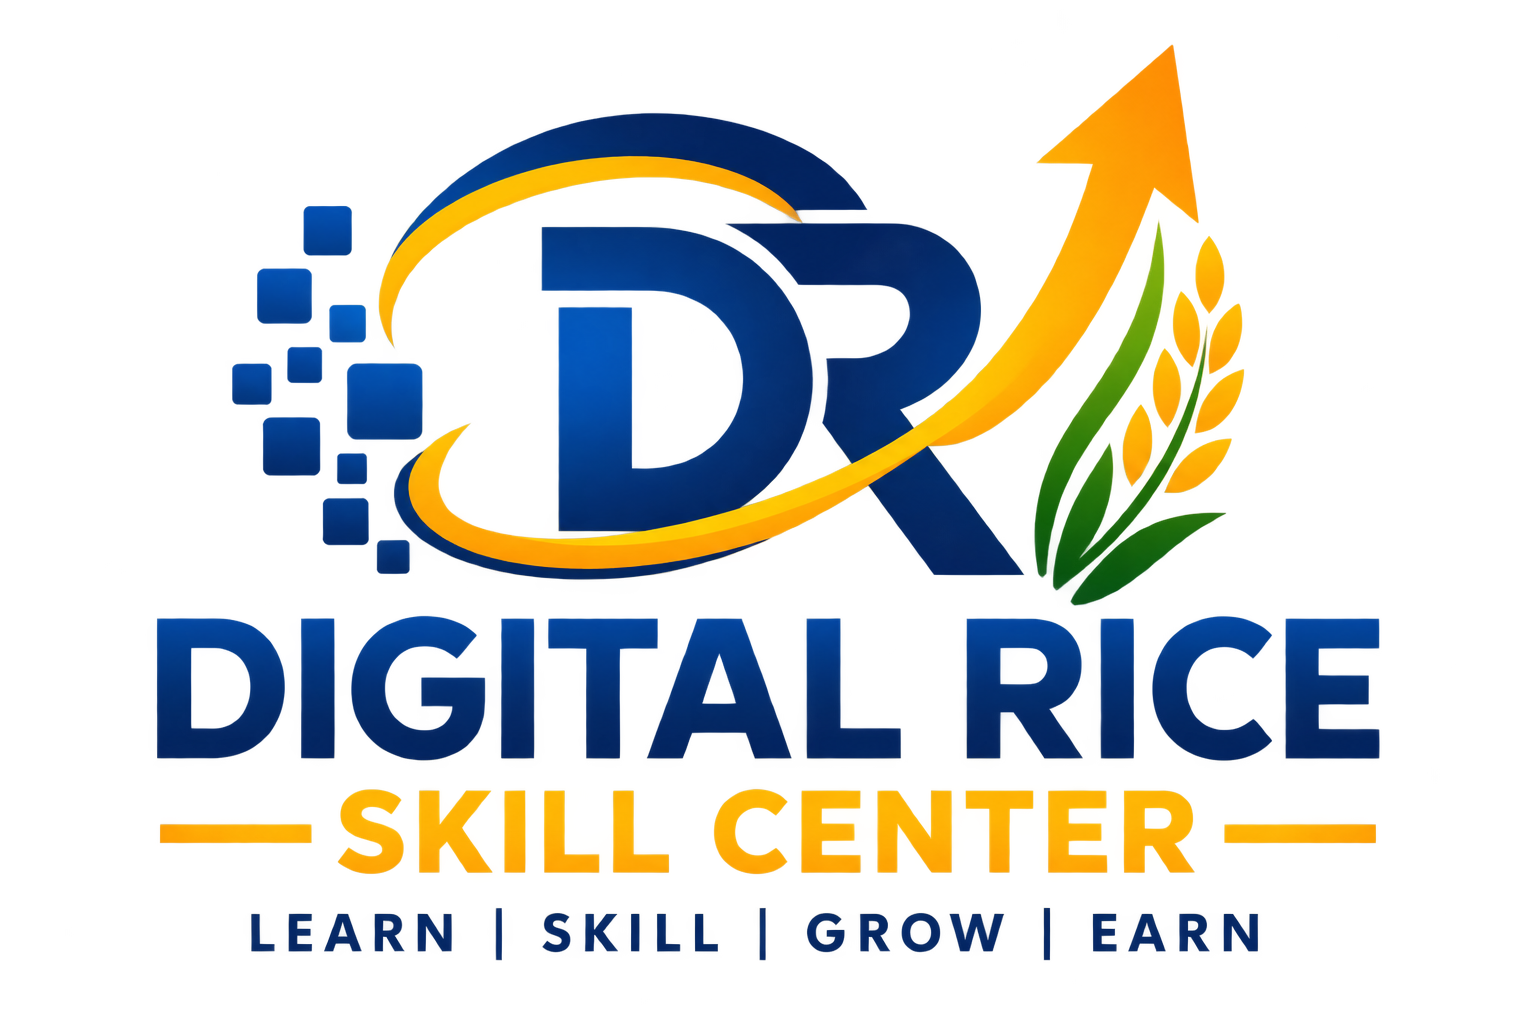
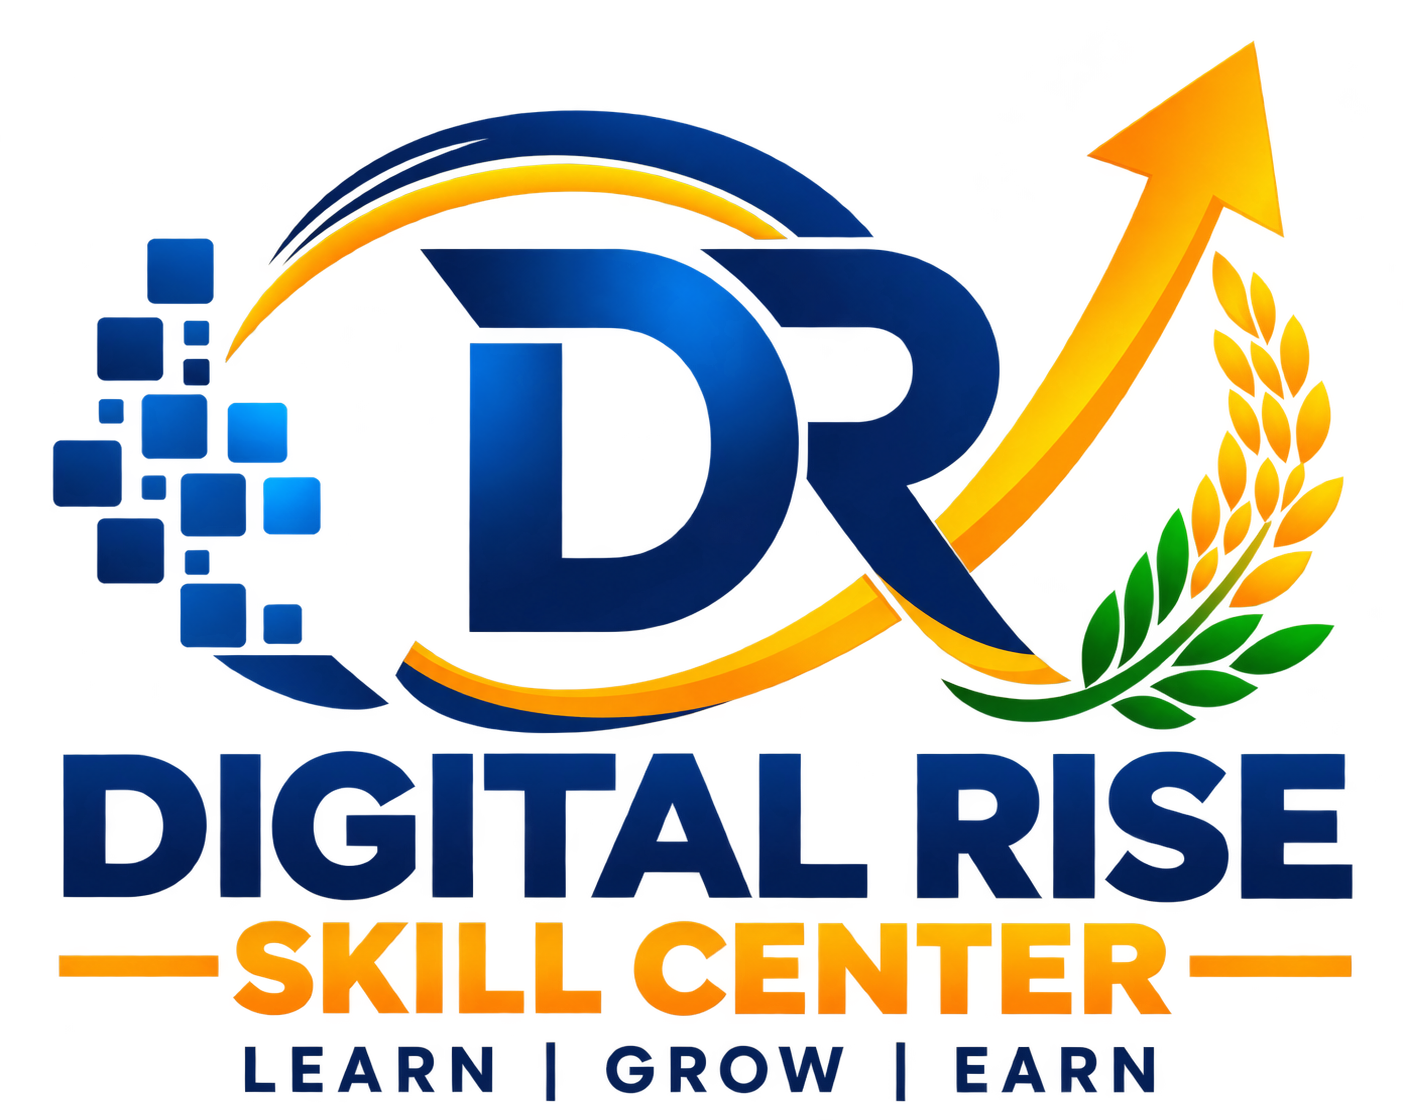
Digital rise skill center

diff --git a/index.html b/index.html
@@ -4,7 +4,7 @@
 <head>
     <meta charset="UTF-8">
     <meta name="viewport" content="width=device-width, initial-scale=1.0">
-    <title>Digital Rice Skill Center | Skills Today, Success Tomorrow</title>
+    <title>Digital Rise Skill Center | Skills Today, Success Tomorrow</title>
     <!-- External CSS File Link -->
     <link rel="stylesheet" href="sytle.css">
     <!-- Font Awesome Icons -->
@@ -295,9 +295,9 @@
 <body>
     <div id="splash-screen" class="splash-screen">
         <div class="splash-circle">
-            <img src="image.png" alt="Digital Rice logo" class="splash-logo">
+            <img src="image.png" alt="Digital Rise logo" class="splash-logo">
         </div>
-        <p class="splash-text">DIGITAL RICE SKILL CENTER</p>
+        <p class="splash-text">DIGITAL RISE SKILL CENTER</p>
         <div class="splash-progress" aria-hidden="true">
             <span class="progress-count">0%</span>
             <div class="progress-bar">
@@ -310,7 +310,7 @@
     <header class="navbar">
         <div class="container nav-container">
             <div class="logo">
-                <img src="image.png" alt="Digital Rice Skill Center logo" class="logo-img">
+                <img src="image.png" alt="Digital Rise Skill Center logo" class="logo-img">
 
             </div>
             <nav>
@@ -476,7 +476,7 @@
                         <div class="positioning-copy">
                             <span class="eyebrow">Company Profile</span>
                             <h2>A Skill Development Hub for Career Growth</h2>
-                            <p>Digital Rice Skill Center is a career training ecosystem committed to making students and
+                            <p>Digital Rise Skill Center is a career training ecosystem committed to making students and
                                 job
                                 seekers industry-ready through practical skills, confidence building, and placement
                                 support.
@@ -528,7 +528,7 @@
             <div class="container">
                 <div class="ceo-grid">
                     <div class="ceo-image">
-                        <img src="founder-photo.jpg" alt="CEO Photo of Digital Rice Skill Center">
+                        <img src="founder-photo.jpg" alt="CEO Photo of Digital Rise Skill Center">
                     </div>
                     <div class="ceo-card">
                         <div class="ceo-quote-mark"><i class="fa-solid fa-quote-left"></i></div>
@@ -539,7 +539,7 @@
                         </blockquote>
                         <div class="ceo-author">
                             <h4>Training & Placement Officer
-                                Digital Rice Skill Center</h4>
+                                Digital Rise Skill Center</h4>
                         </div>
                     </div>
                 </div>
@@ -633,9 +633,9 @@
                 <div class="grid grid-3 footer-grid">
                     <div class="footer-col">
                         <div class="logo">
-                            <!-- <img src="image.png" alt="Digital Rice Skill Center logo" class="logo-img logo-img-footer"> -->
+                            <!-- <img src="image.png" alt="Digital Rise Skill Center logo" class="logo-img logo-img-footer"> -->
                             <div class="logo-text">
-                                <h2 class="white">DIGITAL RICE</h2>
+                                <h2 class="white">DIGITAL RISE</h2>
                                 <span>SKILL CENTER</span>
                             </div>
                         </div>
@@ -649,13 +649,13 @@
                             <li><i class="fa-solid fa-location-dot"></i> <a
                                     href="https://www.google.com/maps/search/?api=1&query=130%2C%202nd%20Number%2C%20Nanda%20Nagar%2C%20Indore%2C%20MP%20-%20452011"
                                     target="_blank" rel="noopener noreferrer"
-                                    aria-label="Open Digital Rice Skill Center address in Google Maps">130, 2nd Number,
+                                    aria-label="Open Digital Rise Skill Center address in Google Maps">130, 2nd Number,
                                     Nanda Nagar, Indore, MP - 452011</a>
                             </li>
                             <li><i class="fa-solid fa-phone"></i> <a href="tel:+918103452976"
-                                    aria-label="Call Digital Rice Skill Center at 8103452976">8103452976</a></li>
-                            <li><i class="fa-solid fa-envelope"></i> info@digitalriceskillcenter.com</li>
-                            <li><i class="fa-solid fa-globe"></i> www.digitalriceskillcenter.com</li>
+                                    aria-label="Call Digital Rise Skill Center at 8103452976">8103452976</a></li>
+                            <li><i class="fa-solid fa-envelope"></i> info@digitalriseskillcenter.com</li>
+                            <li><i class="fa-solid fa-globe"></i> www.digitalriseskillcenter.com</li>
                         </ul>
                     </div>
                     <div class="footer-col">
@@ -666,7 +666,7 @@
                     </div>
                 </div>
                 <div class="footer-bottom">
-                    <p>&copy; 2026 Digital Rice Skill Center. All Rights Reserved. | Serving Nationwide</p>
+                    <p>&copy; 2026 Digital Rise Skill Center. All Rights Reserved. | Serving Nationwide</p>
                 </div>
             </div>
         </footer>
@@ -675,7 +675,7 @@
 
         <div id="ai-assistant" class="ai-assistant hidden">
             <button id="ai-toggle" class="ai-button" aria-label="Open AI Assistant">
-                <img src="image.png" alt="Digital Rice AI" class="ai-toggle-logo" />
+                <img src="image.png" alt="Digital Rise AI" class="ai-toggle-logo" />
             </button>
             <div id="ai-chat" class="ai-chat">
                 <div class="ai-header">
@@ -683,7 +683,7 @@
                     <button id="ai-close" class="ai-close" aria-label="Close assistant">×</button>
                 </div>
                 <div id="ai-messages" class="ai-messages">
-                    <div class="ai-message bot">Namaste! Main Digital Rice AI assistant hoon. Aap courses, fees,
+                    <div class="ai-message bot">Namaste! Main Digital Rise AI assistant hoon. Aap courses, fees,
                         duration,
                         placement process, refund offer, admission aur contact details ke baare mein pooch sakte hain.
                     </div>

diff --git a/main.js b/main.js
@@ -12,9 +12,9 @@ import {
 
 const firebaseConfig = {
     apiKey: "AIzaSyD6otrGTDeW55SKZUrmk0BfDhh8c1I1lRc",
-    authDomain: "digital-rice-skill-center.firebaseapp.com",
-    projectId: "digital-rice-skill-center",
-    storageBucket: "digital-rice-skill-center.firebasestorage.app",
+    authDomain: "digital-rise-skill-center.firebaseapp.com",
+    projectId: "digital-rise-skill-center",
+    storageBucket: "digital-rise-skill-center.firebasestorage.app",
     messagingSenderId: "596472090939",
     appId: "1:596472090939:web:b170785263cef3c885e71e",
     measurementId: "G-P93FV9Q4FB"
@@ -1697,7 +1697,7 @@ Email: ${application.email}`
 
 
                 /* =================================
-                   UPDATE PAYMENT MESSAGE
+                UPDATE PAYMENT MESSAGE
                 ================================= */
 
                 if (modalFormMessage) {
@@ -1723,7 +1723,7 @@ Email: ${application.email}`
 
 
                 /* =================================
-                   UPDATE BUTTONS
+                UPDATE BUTTONS
                 ================================= */
 
                 if (modalPayBtn) {
@@ -1978,7 +1978,7 @@ Email: ${application.email}`
 
 
             /* =================================
-               CREATE APPLICATION RECORD
+            CREATE APPLICATION RECORD
             ================================= */
 
             const appData = {

diff --git a/backend/main.py b/backend/main.py
@@ -27,8 +27,8 @@ load_dotenv()
 # =====================================================
 
 app = FastAPI(
-    title="Digital Rice AI Assistant",
-    description="Gemini powered AI Assistant for Digital Rice Skill Center",
+    title="Digital Rise AI Assistant",
+    description="Gemini powered AI Assistant for Digital Rise Skill Center",
     version="1.0.0"
 )
 
@@ -102,7 +102,7 @@ chat_history = []
 def home():
 
     return {
-        "message": "Digital Rice AI Assistant API is Running"
+        "message": "Digital Rise AI Assistant API is Running"
     }
 
 
@@ -165,14 +165,14 @@ def chat(data: Question):
 
             config={
                 "system_instruction": """
-You are the AI Assistant of Digital Rice Skill Center.
+You are the AI Assistant of Digital Rise Skill Center.
 
 Your purpose is to help students and visitors of
-Digital Rice Skill Center.
+Digital Rise Skill Center.
 
 You can help with:
 
-- Digital Rice Skill Center courses
+- Digital Rise Skill Center courses
 - Training programs
 - Skill development
 - 30-day training program
@@ -198,10 +198,10 @@ IMPORTANT RULES:
    answer in English.
 
 5. Do not make up information about
-   Digital Rice Skill Center.
+   Digital Rise Skill Center.
 
 6. If you do not know a specific detail about
-   Digital Rice Skill Center, clearly say that
+   Digital Rise Skill Center, clearly say that
    you do not have that information.
 
 7. Keep the answer relevant to the question.
@@ -209,11 +209,11 @@ IMPORTANT RULES:
 8. Do not claim to be a human.
 
 9. You are the AI Assistant of
-   Digital Rice Skill Center.
+   Digital Rise Skill Center.
 
 10. Be polite, professional and student-friendly.
 
-KNOWN DIGITAL RICE SKILL CENTER INFORMATION:
+KNOWN DIGITAL RISE SKILL CENTER INFORMATION:
 
 - Registration Fee: ₹300
 - Registration fee is paid during the registration process.
@@ -239,9 +239,9 @@ Available training areas include:
 CONTACT INFORMATION:
 
 - Phone Number: 8103452976
-- Email: info@digitalriceskillcenter.com
+- Email: info@digitalriseskillcenter.com
 - Address: 130, 2nd Number, Nanda Nagar, Indore, MP - 452011
-- Website: www.digitalriceskillcenter.com
+- Website: www.digitalriseskillcenter.com
 
 When a user asks for:
 - contact number
@@ -253,10 +253,10 @@ When a user asks for:
 - location
 
 provide the above contact information directly.
-KNOWN DIGITAL RICE SKILL CENTER INFORMATION:
+KNOWN DIGITAL RISE SKILL CENTER INFORMATION:
 
-ABOUT DIGITAL RICE:
-- Digital Rice Skill Center is a skill development and training platform.
+ABOUT DIGITAL RISE:
+- Digital Rise Skill Center is a skill development and training platform.
 - The AI Assistant is designed to help students and visitors with website-related information.
 
 REGISTRATION:
@@ -287,12 +287,12 @@ TRAINING / SKILLS:
 
 CONTACT:
 - Phone: 8103452976
-- Email: info@digitalriceskillcenter.com
+- Email: info@digitalriseskillcenter.com
 - Address: 130, 2nd Number, Nanda Nagar, Indore, MP - 452011
-- Website: www.digitalriceskillcenter.com
+- Website: www.digitalriseskillcenter.com
 
 IMPORTANT RESPONSE RULE:
-- Always use the information provided above when answering questions about Digital Rice.
+- Always use the information provided above when answering questions about Digital Rise.
 - Do not say "I don't have the information" if the requested information exists above.
 - Do not invent information that is not provided above.
 - If information is genuinely not available above, clearly say that you do not have that specific information.
@@ -311,7 +311,7 @@ Instead, explain that you can review the website information/code provided to yo
 
 Do not claim that a specific website feature is broken unless it is supported by the information available to you.
 
-ADDITIONAL DIGITAL RICE INFORMATION:
+ADDITIONAL DIGITAL RISE INFORMATION:
 
 WEBSITE PURPOSE:
 - The website is designed to provide students with information about training, skill development, job preparation and placement assistance.
@@ -368,8 +368,8 @@ COMMON USER QUESTIONS:
 - How can I prepare for an interview?
 - What should I include in my resume?
 - How can I improve my LinkedIn profile?
-- How can I contact Digital Rice Skill Center?
-- Where is Digital Rice Skill Center located?
+- How can I contact Digital Rise Skill Center?
+- Where is Digital Rise Skill Center located?
 
 IMPORTANT:
 - Never confuse registration fee with training fee.
